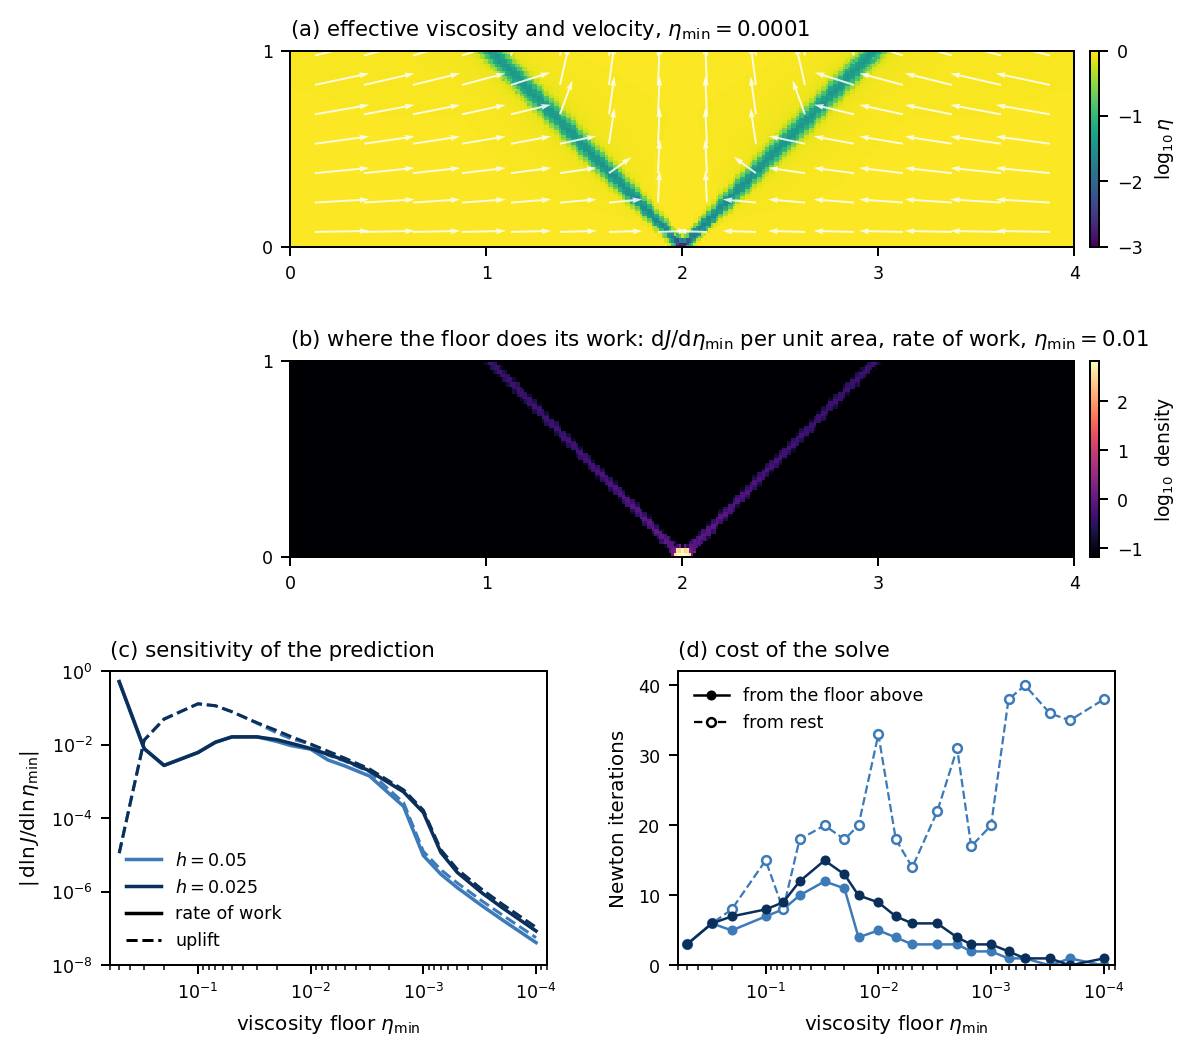
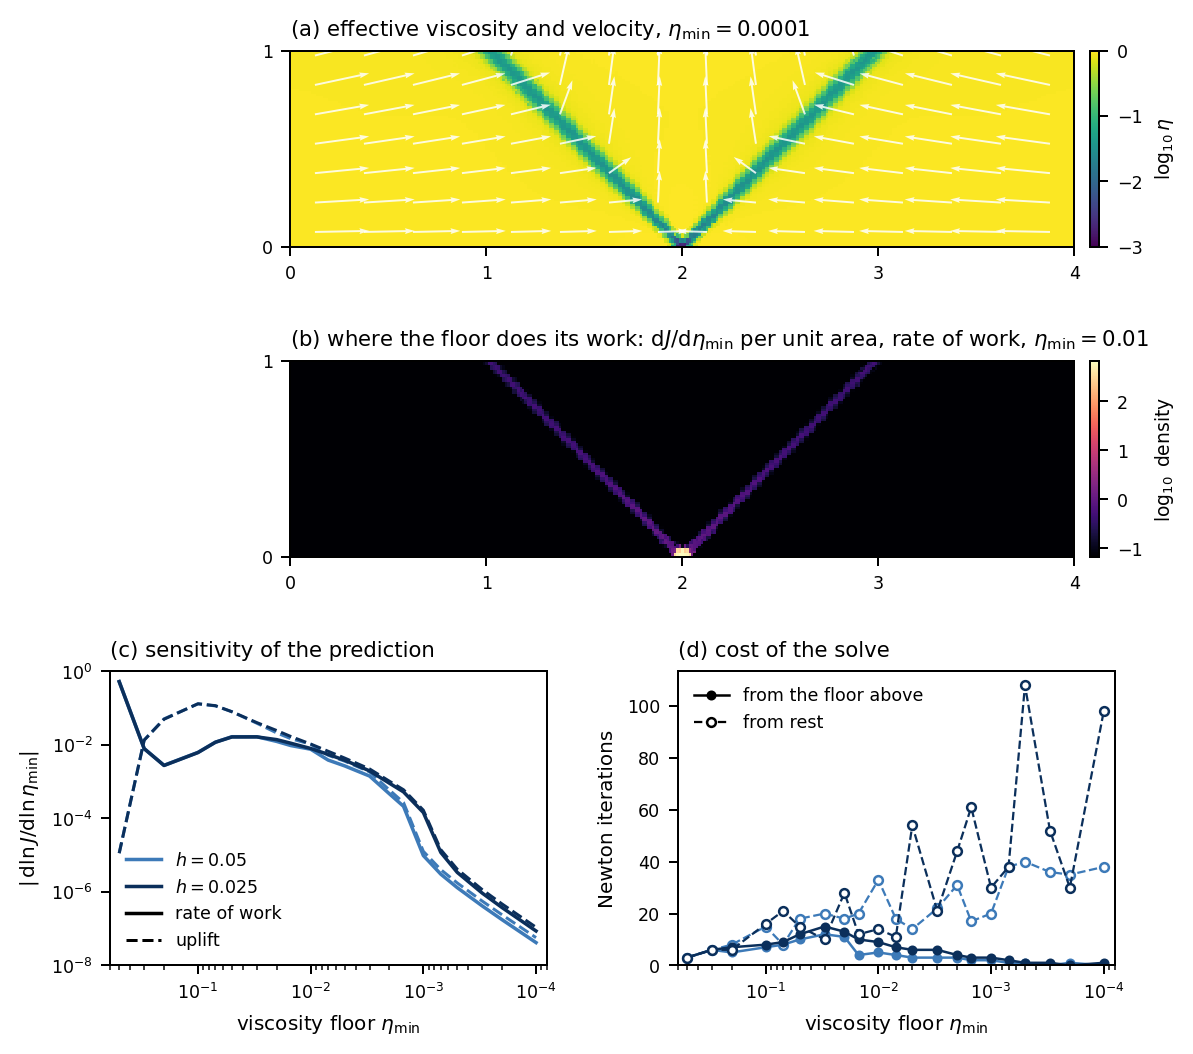
Model derivatives: the medium mesh solved from rest, and the funding acknowledgement
Claude-Session: https://claude.ai/code/session_018wSha1nV5DddcThnCRoFab

diff --git a/articles/model-derivatives-and-their-uses/model-derivatives-and-their-uses.md b/articles/model-derivatives-and-their-uses/model-derivatives-and-their-uses.md
@@ -177,7 +177,7 @@ work agrees with central differences to three parts in $10^{7}$.
 
 ```{figure} figures/viscosity_floor.png
 :label: fig-floor
-:alt: Four panels. (a) The layer, four units wide and one deep, coloured by the logarithm of the effective viscosity at the lowest floor: yellow, a viscosity of one, everywhere except two narrow bands that rise from the middle of the base at 45 degrees to the surface at x = 1 and x = 3, where the viscosity falls to about a thousandth; white arrows show the walls moving inward and the wedge between the bands moving up. (b) The same layer coloured by the derivative of the rate of work with respect to the floor, per unit area, at a floor of 0.01: black almost everywhere, faint along the two bands, and bright at the seed where they meet. (c) The magnitude of the logarithmic sensitivity of the rate of work, solid, and the uplift, dashed, against the floor from 0.5 down to 0.0001, on logarithmic axes, one colour per mesh: both rise to a maximum between floors of 0.1 and 0.03, the uplift's eight times higher, fall by a factor of ten by a floor of 0.003, then fall steeply, by a further two orders of magnitude by 0.001 on the coarser mesh, the finer mesh falling at a slightly lower floor. (d) Newton iterations against the floor: lowered from the floor above, a peak of twelve to fifteen at floors of 0.03, falling to one or none below 0.001; solved from rest, eight to thirty-three at the floors that matter and thirty-five to forty below 0.001.
+:alt: Four panels. (a) The layer, four units wide and one deep, coloured by the logarithm of the effective viscosity at the lowest floor: yellow, a viscosity of one, everywhere except two narrow bands that rise from the middle of the base at 45 degrees to the surface at x = 1 and x = 3, where the viscosity falls to about a thousandth; white arrows show the walls moving inward and the wedge between the bands moving up. (b) The same layer coloured by the derivative of the rate of work with respect to the floor, per unit area, at a floor of 0.01: black almost everywhere, faint along the two bands, and bright at the seed where they meet. (c) The magnitude of the logarithmic sensitivity of the rate of work, solid, and the uplift, dashed, against the floor from 0.5 down to 0.0001, on logarithmic axes, one colour per mesh: both rise to a maximum between floors of 0.1 and 0.03, the uplift's eight times higher, fall by a factor of ten by a floor of 0.003, then fall steeply, by a further two orders of magnitude by 0.001 on the coarser mesh, the finer mesh falling at a slightly lower floor. (d) Newton iterations against the floor: lowered from the floor above, a peak of twelve to fifteen at floors of 0.03, falling to one or none below 0.001; solved from rest, from six to sixty-one at the floors that matter and from thirty to a hundred and eight below 0.001, higher and more scattered on the finer mesh.
 
 The viscosity floor of a viscoplastic layer. (a) The effective viscosity and
 the velocity at the lowest floor. (b) Where the floor does its work at a
@@ -209,8 +209,12 @@ below it.
 The Newton iterations follow the same course ([](#fig-floor)d). Lowered from
 the floor above, each solve takes most iterations where the sensitivity is
 largest, and one or none once the floor has stopped mattering. Solved from
-rest, the same floors take eight to thirty-three iterations where the floor
-matters and thirty-five to forty below $0.001$, where it does not.
+rest, the same floors reach the same solutions, to a few parts in $10^{6}$,
+but take eight to thirty-three iterations where the floor matters and
+thirty-five to forty below $0.001$, where it does not; on the mesh with half
+the cell size, six to sixty-one, and thirty to a hundred and eight. A solve
+from rest is hardest, and least predictable, at the floors that matter
+least.
 
 The floor's work is also local. With the floor set cell by cell, all cells
 equal, the adjoint returns $\mathrm dJ/\mathrm d\eta_{\min}$ for each cell,
@@ -330,5 +334,11 @@ and at ten percent only the near-surface segment moves, halfway. The
 fitted $\chi^2$ per observation is 1.0001 in each case, so those are the answers the data
 hold. A run in time is a chain of solves like this one, differentiated in
 reverse order.
+
+<!-- uwtn-acknowledgement -->
+
+*The Underworld project is supported by AuScope and the Australian Government through the National Collaborative Research Infrastructure Strategy (NCRIS). Source code:* [*github.com/underworldcode/underworld3*](https://github.com/underworldcode/underworld3)
+
+<!-- uwtn-acknowledgement -->
 
 <div class="uwtn-discuss"><div class="uwtn-discuss-head">Comments</div><div class="uwtn-discuss-body">Discussion of these notes happens in GitHub Discussions, so it stays with the source and is searchable alongside it.</div><div class="uwtn-discuss-links"><a href="https://github.com/Underworld-Technical-Notes/underworldcode.org/discussions?discussions_q=model-derivatives-and-their-uses">Read the discussion</a><a href="https://github.com/Underworld-Technical-Notes/underworldcode.org/discussions/new?category=general&title=model-derivatives-and-their-uses">Start one</a></div></div>
